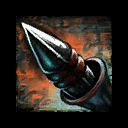
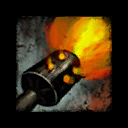
FLAMETHROWER MURICA FUCK YEAH

diff --git a/source/spells/update_gunner_1.c b/source/spells/update_gunner_1.c
@@ -119,3 +119,49 @@ void gunner_update_auto_attack(st_rpg *s)
 			s->f.gun.bullet[9]->shot = 0;
 	}
 }
+
+void gunner_update_flamet_animation(st_rpg *s)
+{
+	for (int i = 0; i != 100; i += 1) {
+		if (s->f.gun.flame[i]->shot) {
+			s->f.gun.flame[i]->obj->rect.top += 30;
+			if (s->f.gun.flame[i]->obj->rect.top > 180)
+				s->f.gun.flame[i]->obj->rect.top = 0;
+			sfSprite_setTextureRect(s->f.gun.flame[i]->obj->sprite,
+			s->f.gun.flame[i]->obj->rect);
+		} if (s->f.gun.flame[i]->obj->speed > 0 &&
+			s->f.gun.flame[i]->shot)
+			s->f.gun.flame[i]->obj->speed -= s->f.gun.cdiminution
+			/ 100;
+	}
+}
+
+void update_flame(st_rpg *s)
+{
+	if (s->f.gun.cflame > 99) {
+		s->f.gun.cflame = 0;
+		for (int i = 0; i != 100; i += 1)
+			s->f.gun.flame[i]->obj->speed = s->f.gun.cdiminution;
+	}
+}
+
+void gunner_update_flamet(st_rpg *s)
+{
+	s->f.gun.t.time = sfClock_getElapsedTime(s->f.gun.t.clock);
+	s->f.gun.t.sec = s->f.gun.t.time.microseconds / 1000000.0;
+	if (s->f.gun.t.sec > 0.01 && s->f.gun.flamet == 1) {
+		s->f.gun.flame[s->f.gun.cflame]->angle = get_angle(s);
+		launch_projectile(s, s->f.gun.flame[s->f.gun.cflame],
+		s->f.gun.flame[s->f.gun.cflame]->angle);
+		s->f.gun.cflame += 1;
+		s->f.gun.flamestay -= s->f.gun.t.sec;
+		s->f.gun.t.sec = 0;
+		update_flame(s);
+		sfClock_restart(s->f.gun.t.clock);
+		gunner_update_flamet_animation(s);
+		if (s->f.gun.flamestay < 0) {
+			s->f.gun.flamet = 0;
+			s->f.cast = 0;
+		}
+	}
+}

diff --git a/source/fight/create_spells_gunner.c b/source/fight/create_spells_gunner.c
@@ -64,3 +64,17 @@ void create_gunner_second(st_rpg *s)
 	s->f.gun.net = create_projectile("ressources/proj/Net");
 	s->f.gun.grenadespeed = s->f.gun.grenade->obj->speed;
 }
+
+void create_gunner_ults(st_rpg *s)
+{
+	for (int i = 0; i != 100; i += 1) {
+		s->f.gun.flame[i] = create_projectile("ressources/proj/Flame");
+		s->f.gun.flame[i]->obj->rect.height = 30;
+		sfSprite_setTextureRect(s->f.gun.flame[i]->obj->sprite,
+		s->f.gun.flame[i]->obj->rect);
+	}
+	s->f.gun.flamet = 0;
+	s->f.gun.flamestay = 0;
+	s->f.gun.cflame = 0;
+	s->f.gun.cdiminution = s->f.gun.flame[0]->obj->speed;
+}

diff --git a/source/spells/gunner_3.c b/source/spells/gunner_3.c
@@ -32,14 +32,20 @@ void gunner_ult(st_rpg *s)
 	}
 }
 
-void gunner_turret(st_rpg *s)
+void gunner_flamethrower(st_rpg *s)
 {
-
+	s->f.gun.cflame = 0;
+	s->f.gun.flamet = 1;
+	s->f.cast = 1;
+	s->f.gun.flamestay = 4;
+	for (int i = 0; i != 100; i += 1)
+		s->f.gun.flame[i]->obj->speed = s->f.gun.cdiminution;
+	sfClock_restart(s->f.gun.t.clock);
 }
 
 void choose_spell3_gunner(st_rpg *s)
 {
-	void (*list[2])(st_rpg *s) = {gunner_ult, gunner_turret};
+	void (*list[2])(st_rpg *s) = {gunner_ult, gunner_flamethrower};
 
 	(list[s->player.tree.spell3])(s);
 }

diff --git a/source/fight/update_class.c b/source/fight/update_class.c
@@ -29,6 +29,8 @@ void update_gunner(st_rpg *s)
 {
 	gunner_update_auto_attack(s);
 	gunner_update_grenade(s);
+	for (int i = 0; i != 100; i += 1)
+		update_projectile(s->f.gun.flame[i]);
 	for (int i = 0; i != 10; i += 1) {
 		update_projectile(s->f.gun.bullet[i]);
 		update_projectile(s->f.gun.ultb[i]);
@@ -42,6 +44,7 @@ void update_gunner(st_rpg *s)
 	update_projectile(s->f.gun.net);
 	gunner_update_blitz(s);
 	gunner_update_ultimate(s);
+	gunner_update_flamet(s);
 }
 
 void update_rogue(st_rpg *s)

diff --git a/include/my_rpg.h b/include/my_rpg.h
@@ -279,6 +279,10 @@ typedef struct struct_archer_spells
 typedef struct struct_gunner_spells
 {
 	int auto_a;
+	int flamet;
+	float flamestay;
+	int cflame;
+	float cdiminution;
 	int autocount;
 	float autospeed;
 	st_time t;
@@ -296,6 +300,7 @@ typedef struct struct_gunner_spells
 	int current;
 	int ult;
 	proj_t *ultb[10];
+	proj_t *flame[100];
 	g_object *trait[10];
 	sfVector2f ultrat;
 	int dmg;

diff --git a/source/fight/update_projectiles.c b/source/fight/update_projectiles.c
@@ -16,6 +16,8 @@ void update_projectile_archer(st_rpg *s)
 
 void update_projectile_gunner(st_rpg *s)
 {
+	for (int i = 0; i != 100; i += 1)
+		apply_projectile(s, s->f.gun.flame[i], s->f.mob);
 	for (int i = 0; i != 10; i += 1) {
 		apply_projectile(s, s->f.gun.bullet[i], s->f.mob);
 		apply_projectile(s, s->f.gun.ultb[i], s->f.mob);

diff --git a/source/fight/display_class.c b/source/fight/display_class.c
@@ -19,6 +19,8 @@ void display_archer(st_rpg *s)
 
 void display_gunner(st_rpg *s)
 {
+	for (int i = 99; i != -1; i -= 1)
+		display_projectile(s->window, s->f.gun.flame[i]);
 	for (int i = 0; i != 10; i += 1) {
 		display_projectile(s->window, s->f.gun.bullet[i]);
 		display_projectile(s->window, s->f.gun.ultb[i]);

diff --git a/source/fight/destroy_spells.c b/source/fight/destroy_spells.c
@@ -22,6 +22,8 @@ void destroy_spells_archer(st_rpg *s)
 
 void destroy_spells_gunner(st_rpg *s)
 {
+	for (int i = 0; i != 100; i += 1)
+		 destroy_projectile(s->f.gun.flame[i]);
 	for (int i = 0; i != 10; i += 1) {
 		destroy_projectile(s->f.gun.bullet[i]);
 		destroy_projectile(s->f.gun.ultb[i]);

diff --git a/source/fight/create_spells.c b/source/fight/create_spells.c
@@ -19,6 +19,7 @@ void create_spells_gunner(st_rpg *s)
 	create_gunner_bullets(s);
 	create_gunner_second(s);
 	create_gunner_explosions(s);
+	create_gunner_ults(s);
 }
 
 void create_spells_rogue(st_rpg *s)
